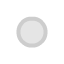
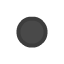
check target and level done.

Changed region(s): [[0.25, 0.25, 0.75, 0.75]]

diff --git a/src/game/gamelogic.ts b/src/game/gamelogic.ts
@@ -115,11 +115,12 @@ export class Gamelogic {
         if (wall) return;
 
         if (this.isEmpty(nx, ny)) {
+            //empty => move
             this.level.playerSprite.move(nx, ny);
         } else {
             let crate = this.map.getSprite(nx, ny, LayerId.crate);
             if (crate) {
-                //try push
+                //crate => try push
                 let nnx = x + dx * 2;
                 let nny = y + dy * 2;
                 if (this.isEmpty(nnx, nny)) {
@@ -135,6 +136,23 @@ export class Gamelogic {
     }
 
     check() {
-        //TODO check each level target has crate
+        let levelDone = true;
+
+        //check each level target has crate
+        for (let targetMetal of this.level.targetMetal) {
+            let crate = this.map.getSprite(targetMetal.x, targetMetal.y, LayerId.crate);
+            let filled = crate && crate.asset === ImageAsset.crate_metal;
+            levelDone = levelDone && filled;
+            targetMetal.asset = filled ? ImageAsset.target_metal_2 : ImageAsset.target_metal_1;
+        }
+
+        for (let targetWood of this.level.targetWood) {
+            let crate = this.map.getSprite(targetWood.x, targetWood.y, LayerId.crate);
+            let filled = crate && crate.asset === ImageAsset.crate_wood;
+            levelDone = levelDone && filled;
+            targetWood.asset = filled ? ImageAsset.target_wood_2 : ImageAsset.target_wood_1;
+        }
+
+        console.log("levelDone", levelDone);
     }
 }

diff --git a/src/renderer/layer.ts b/src/renderer/layer.ts
@@ -56,6 +56,11 @@ export class Layer {
         return this.cells[x][y];
     }
 
+    is(x: number, y: number, asset: ImageAsset) {
+        let sprite = this.get(x, y);
+        return (!sprite && !asset) || (sprite.asset === asset);
+    }
+
     move(sprite: Sprite, newX: number, newY: number): boolean {
         if (newX < 0 || newX >= W) return null;
         if (newY < 0 || newY >= H) return null;

diff --git a/src/renderer/sprite.ts b/src/renderer/sprite.ts
@@ -5,7 +5,7 @@ export class Sprite {
 
     x: number;
     y: number;
-    readonly asset: ImageAsset;
+    asset: ImageAsset;
     readonly layer: Layer;
 
     constructor(asset: ImageAsset, layer: Layer) {
